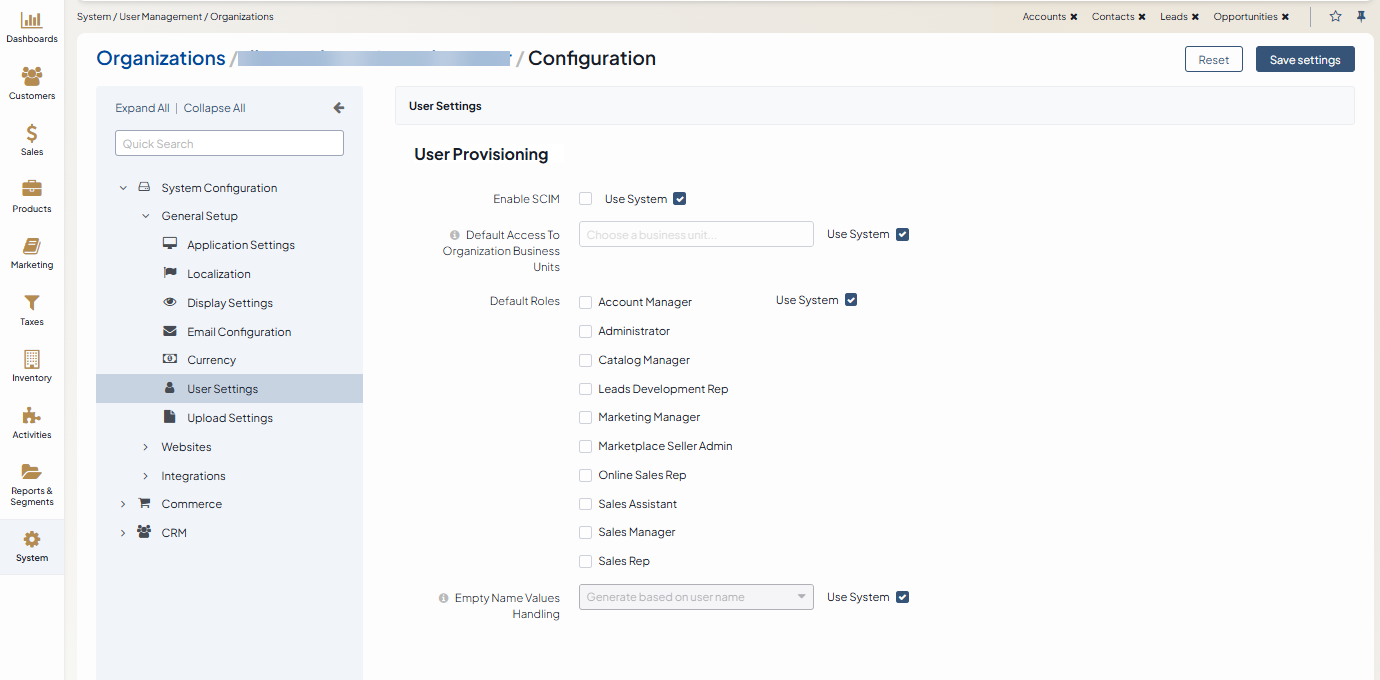
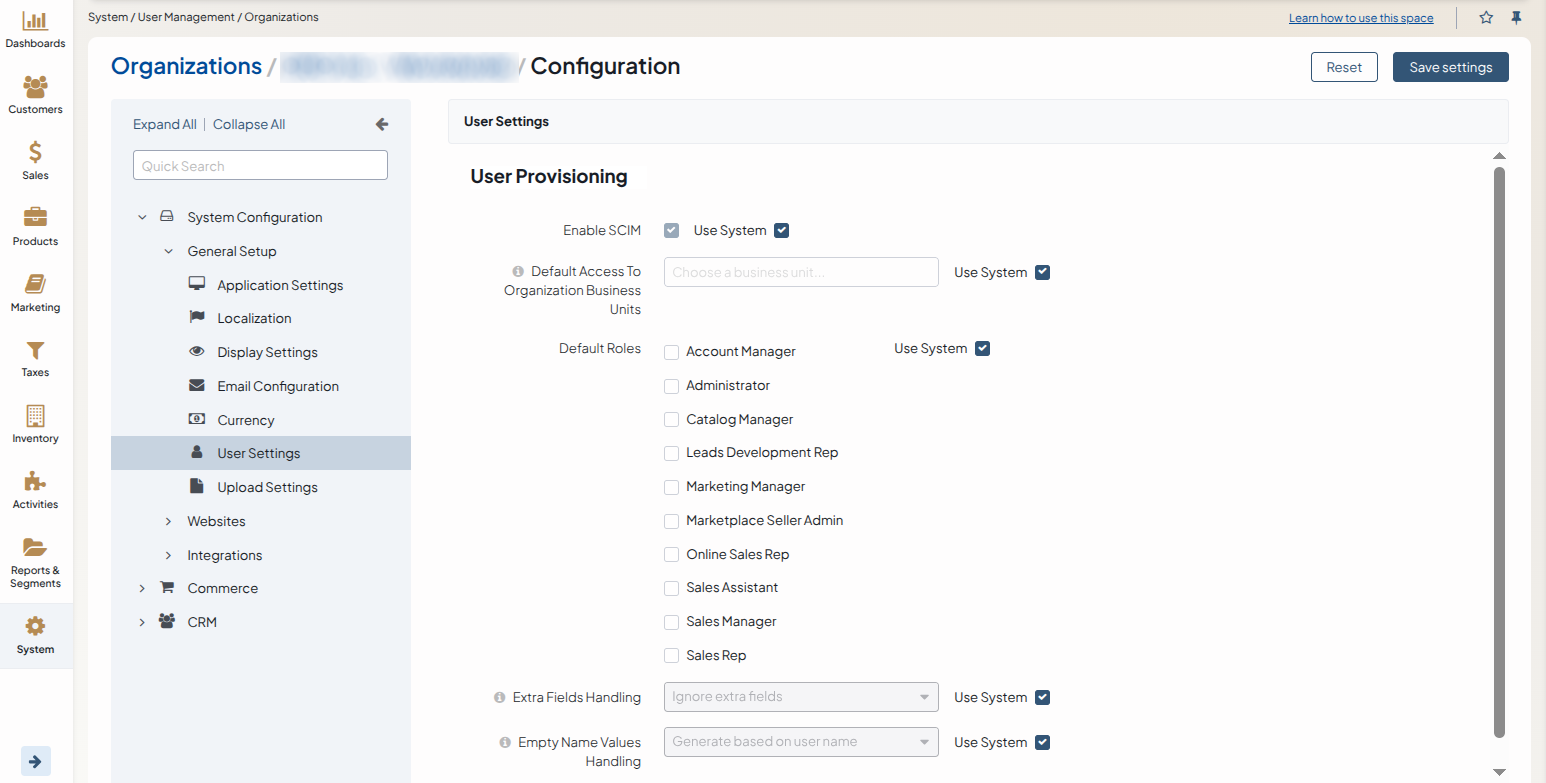
BB-26380: Okta SCIM (#43188)

diff --git a/user/back-office/system/configuration/system/general-setup/user.rst b/user/back-office/system/configuration/system/general-setup/user.rst
@@ -18,7 +18,7 @@ Email Settings
 
 Under **Email Settings**, configure the following:
 
-* **Case-Insensitive Email Addresses** --- If this option is enabled, the letter case is ignored when comparing email addresses. For example, john.doe@example.com and John.Doe@example.com are treated equally. By default, the option is disabled. Be noted that the setting is only applied to back-office users. The identical option for customer users is managed :ref:`here <sys-config--configuration--commerce--customers--customer-users>`.
+* **Case-Insensitive Email Addresses** --- If this option is enabled, the letter case is ignored when comparing email addresses. For example, john.doe@example.com and John.Doe@example.com are treated equally. By default, the option is disabled. Please note that the setting only applies to back-office users. The identical option for customer users is managed :ref:`here <sys-config--configuration--commerce--customers--customer-users>`.
 
 .. _admin-configuration-user-settings-share:
 
@@ -38,7 +38,7 @@ User Provisioning
 
 .. note:: The SCIM synchronization is available as of OroCommerce Enterprise version 6.1.6.
 
-Under **User Provisioning**, configure the SCIM (System for Cross-domain Identity Management) protocol in the Oro application. This setup allows you to import and synchronize users from external identity systems, such as Microsoft Entra ID, into Oro. Once imported, these users can log in to Oro via :ref:`Microsoft 365 Single Sign-On <user-guide-integrations-microsoft-single-sign-on>`.
+Under **User Provisioning**, configure the SCIM (System for Cross-domain Identity Management) protocol in the Oro application. This setup allows you to import and synchronize users from external identity systems, such as Microsoft Entra ID or Okta, into Oro. Once imported, these users can log in to Oro via :ref:`Microsoft 365 Single Sign-On <user-guide-integrations-microsoft-single-sign-on>` or Okta Single Sign-On.
 
 Enable SCIM Synchronization
 ^^^^^^^^^^^^^^^^^^^^^^^^^^^
@@ -48,11 +48,113 @@ To enable and control SCIM synchronization, set the following options:
 * **Enable SCIM** --- Enable or disable the SCIM integration on the global level.
 * **Default Access to Organization Business Units** --- Select the organizations and business units that will be automatically assigned to newly synchronized users.
 * **Default Roles** --- Select the user roles that new users will receive upon synchronization.
-* **Empty name values handling** --- Choose how the system should handle cases when the identity provider does not send first or last name values. The available options are:
+* **Extra Fields Handling** --- Choose how the system should handle cases when the identity provider sends extra fields. The available options are:
 
-    * **Leave as is and expect validation errors** --- If selected, and the identity provider sends no first or last name to Oro, the system will return an exception without generating any replacement values.
+    * **Return error** (default) --- If selected, and the identity provider sends extra fields to Oro, the system will return an error.
+    * **Ignore extra fields** --- If selected, and the identity provider sends extra fields to Oro, the system will ignore these fields.
+* **Empty Name Values Handling** --- Choose how the system should handle cases when the identity provider does not send first or last name values. The available options are:
+
+    * **Leave as is and expect validation errors** --- If selected, and the identity provider sends no first or last name to Oro, the system will return an error without generating any replacement values.
     * **Generate based on user name** (default) --- If selected, the first and last name values will be copied from the username field.
-    * **Use random string** ---  If selected, the first and last name values will be automatically generated as random strings.
+    * **Use random string** --- If selected, the first and last name values will be automatically generated as random strings.
+
+.. _okta-provisioning-service:
+
+Configure Okta Provisioning Service
+^^^^^^^^^^^^^^^^^^^^^^^^^^^^^^^^^^^
+
+**OroCommerce side**
+
+To configure the user provisioning via |Okta provisioning service|, make sure you have:
+
+1. Configured the SCIM synchronization globally or :ref:`per required organization <admin-configuration-user-settings-org>`.
+
+    .. important:: At least one organization business unit and user role should be configured in order to allow login of imported users.
+
+2. Created Authorization Code OAuth application as described in the :ref:`Create an OAuth Application <oauth-applications>` topic.
+
+    .. note:: The redirect URL you can see in |Okta SCIM API - authentication| in the Okta SCIM API documentation. Add a fake URL if you have not yet created an Okta application. The correct URL can be set later.
+
+3. Copied Client ID and Client secret. For security reasons, the Client Secret is displayed only once -- immediately after you have created a new application. You cannot view the Client Secret anywhere in the application once you leave a page with the created application information, so make sure you save it somewhere safe so you can access it later.
+
+**Okta side**
+
+1. Log in to your Okta Admin Console.
+
+2. Navigate to **Applications > Applications**.
+
+3. Click **Create App Integration**.
+
+4. Choose **SAML 2.0** sign-in method and click **Next**.
+
+5. Provide a name and a logo for the new application and click **Next**.
+
+6. Fill in the form with the following data and click **Next**:
+
+    * **Single sign-on URL**: ``https://yourapplication``
+    * **Audience URI (SP Entity ID)**: ``https://yourapplication``
+
+7. Specify options that will help Okta Support understand how you configured this application and click **Finish**.
+
+    .. note:: As the Okta application has been successfully created, you can now add the redirect URL to the OroCommerce OAuth application.
+
+8. On the application management page, navigate to the **General** tab and click **Edit** in **App Settings**.
+
+9. Choose **SCIM** provisioning method and click **Save**.
+
+10. Navigate to the **Provisioning** tab and click **Edit** in **SCIM Connection**.
+
+11. Fill in the form with the following data and click **Save**:
+
+    * **SCIM connector base URL**: ``https://yourapplication/{backend_prefix}/scim``
+    * **Unique identifier field for users**: ``userName``
+    * **Supported provisioning actions**: ``Push New Users`` and ``Push Profile Updates``
+    * **Authentication Mode**: ``OAuth 2``
+    * **Access token endpoint URI**: ``https://yourapplication/oauth2-token``
+    * **Authorization endpoint URI**: ``https://yourapplication/{backend_prefix}/oauth2-token/authorize``
+    * **Client ID**: The Client ID value of the OAuth 2 application
+    * **Client Secret**: The client secret of the OAuth 2 application
+
+12. Click **Authorize with {your application}** and grant access to your application to Okta.
+
+13. Navigate to the **Provisioning** tab, click **To App** in the left menu and click **Edit** in **Provisioning to App**.
+
+14. Fill in the form with the following data and click **Save**:
+
+    * **Create Users**: Enable
+    * **Update User Attributes**: Enable
+    * **Deactivate Users**: Enable
+
+15. Navigate to the **Provisioning** tab and click **To App** in the left menu and configure user mapping with the following attributes:
+
+    +------------------+----------------+----------------------------------------------------------------------+
+    | Attribute        | Attribute Type | Value                                                                |
+    +==================+================+======================================================================+
+    | userName         | Personal       |                                                                      |
+    +------------------+----------------+----------------------------------------------------------------------+
+    | givenName        | Personal       | user.firstName                                                       |
+    +------------------+----------------+----------------------------------------------------------------------+
+    | familyName       | Personal       | user.lastName                                                        |
+    +------------------+----------------+----------------------------------------------------------------------+
+    | middleName       | Personal       | user.middleName                                                      |
+    +------------------+----------------+----------------------------------------------------------------------+
+    | honorificPrefix  | Personal       | user.honorificPrefix                                                 |
+    +------------------+----------------+----------------------------------------------------------------------+
+    | honorificSuffix  | Personal       | user.firstName                                                       |
+    +------------------+----------------+----------------------------------------------------------------------+
+    | email            | Personal       | user.email                                                           |
+    +------------------+----------------+----------------------------------------------------------------------+
+    | emailType        | Personal       | (user.email != null && user.email != '') ? 'work' : ''               |
+    +------------------+----------------+----------------------------------------------------------------------+
+    | title            | Personal       | user.title                                                           |
+    +------------------+----------------+----------------------------------------------------------------------+
+    | primaryPhone     | Personal       | user.primaryPhone                                                    |
+    +------------------+----------------+----------------------------------------------------------------------+
+    | primaryPhoneType | Personal       | (user.primaryPhone != null && user.primaryPhone != '') ? 'work' : '' |
+    +------------------+----------------+----------------------------------------------------------------------+
+
+16. Navigate to the **Assignments** tab and configure the user to be provisioned.
+
 
 .. _microsoft-entra-provisioning-service:
 
@@ -65,9 +167,11 @@ To configure the user provisioning via |Microsoft Entra provisioning service|, m
 
 1. Configured the SCIM synchronization globally or :ref:`per required organization <admin-configuration-user-settings-org>`.
 
-2. Created Client Credentials as described in the :ref:`Create an OAuth Application <oauth-applications>` topic.
+    .. important:: At least one organization business unit and user role should be configured in order to allow login of imported users.
 
-3. Copied Client ID and Client secret. For security reasons, the Client Secret is displayed only once -- immediately after you have created a new application. You cannot view the Client Secret anywhere in the application once you close this dialog, so make sure you save it somewhere safe so you can access it later.
+2. Created Client Credentials OAuth application as described in the :ref:`Create an OAuth Application <oauth-applications>` topic.
+
+3. Copied Client ID and Client secret. For security reasons, the Client Secret is displayed only once -- immediately after you have created a new application. You cannot view the Client Secret anywhere in the application once you leave a page with the created application information, so make sure you save it somewhere safe so you can access it later.
 
     .. image:: /user/img/system/user_management/oauth/client_creds_app.png
 
@@ -93,7 +197,7 @@ To configure the user provisioning via |Microsoft Entra provisioning service|, m
     * **Tenant URL**: the SCIM endpoint URL of your application, for example: ``https://yourapplication/scim/``, or ``https://yourapplication/{backend_prefix}/scim/`` if Commerce application is installed.
     * **Token endpoint**: ``https://yourapplication/oauth2-token``
     * **Client identifier**: The Client ID value of the OAuth 2 application
-    * Client Secret: The client secret of the OAuth 2 application
+    * **Client Secret**: The client secret of the OAuth 2 application
 
     .. image:: /user/img/system/config_system/ms_provisioning_config.png
 
@@ -140,9 +244,7 @@ To configure the user provisioning via |Microsoft Entra provisioning service|, m
 
 After the initial provisioning cycle begins, go to **Provisioning logs** in the left menu to track its progress. This section displays all the actions performed by the provisioning service for your application.
 
-After user was synced, you will be able to log in via :ref:`Microsoft 365 Single Sign-On <user-guide-integrations-microsoft-single-sign-on>` with such synced users.
-
-.. important:: The imported user must be assigned to at least one organization business unit in order to log in.
+After the user was synced, you will be able to log in via :ref:`Microsoft 365 Single Sign-On <user-guide-integrations-microsoft-single-sign-on>` with such synced users.
 
 
 .. include:: /include/include-images.rst

diff --git a/user/back-office/system/user-management/oauth-app.rst b/user/back-office/system/user-management/oauth-app.rst
@@ -42,8 +42,8 @@ To create a new OAuth application in the back-office:
    * **Organization** --- If you are adding an application within the organization with *global* access, you can select which other available organization to add the application to. This field is displayed to users with access to multiple organizations (available for the Enterprise edition only).
    * **Application Name** --- Provide a meaningful name for the application you are adding.
    * **Active** --- Select the **Active** checkbox to activate the new application.
-   * **Client Support All API Types** --- Select whether the client should support all available API types. If disabled, the *Selected API Types* filed appears with a list of API types for the user to select the required one.
-   * **Selected API Types** --- The field appears when the *Client Support All API Types* field is disabled. Select the API type that the client should support. Available options are JSON:API, Email Addon, Smart Agent Integration, and :ref:`SCIM <admin-configuration-user-settings-scim>`.
+   * **Support all APIs** --- Select whether the client should support all available API types. If disabled, the *Supported APIs* filed appears with a list of API types for the user to select the required one.
+   * **Supported APIs** --- The field appears when the *Support all APIs* field is disabled. Select the API type that the client should support, for example JSON:API, Email Addon, SCIM, etc.
    * **Grant Type** --- Select the grant type to apply to the new application. Currently, the available grant types are *Authorization Code*, *Client Credentials*, and *Password*. The |Authorization Code Grant| type is used by confidential and public clients to exchange an authorization code for an access token, the |OAuth Client Credentials Grant| type is used for machine-to-machine authentication (e.g., in a cron job that performs maintenance tasks over an API) and |OAuth Password Grant| is used by trusted first-party clients to exchange the credentials (username and password) for an access token.
    * **Users** --- The field appears when selecting *Client Credentials* as a grant type in the previous field. Select a customer user who you want to assign the new application to.
    * **Redirect URLs** --- The field appears when selecting *Authorization Code* as a grant type. The list of URLs to which it is allowed to redirect the user back to.

diff --git a/user/back-office/system/user-management/organizations/org-configuration/general-setup-org/organization-user-settings.rst b/user/back-office/system/user-management/organizations/org-configuration/general-setup-org/organization-user-settings.rst
@@ -27,15 +27,19 @@ To set the user provisioning settings per specific organization:
 * **Enable SCIM** --- Enable or disable the SCIM integration on the global level.
 * **Default Access to Organization Business Units** --- Select the organizations and business units that will be automatically assigned to newly synchronized users.
 * **Default Roles** --- Select the user roles that new users will receive upon synchronization.
+* **Extra fields handling** --- Choose how the system should handle cases when the identity provider send extra fields. The available options are:
+
+    * **Return error** (default) --- If selected, and the identity provider sends extra fields to Oro, the system will return an error.
+    * **Ignore extra fields** --- If selected, and the identity provider sends extra fields to Oro, the system will ignore these fields.
 * **Empty name values handling** --- Choose how the system should handle cases when the identity provider does not send first or last name values. The available options are:
 
-    * **Leave as is and expect validation errors** --- If selected, and the identity provider sends no first or last name to Oro, the system will return an exception without generating any replacement values.
+    * **Leave as is and expect validation errors** --- If selected, and the identity provider sends no first or last name to Oro, the system will return an error without generating any replacement values.
     * **Generate based on user name** (default) --- If selected, the first and last name values will be copied from the username field.
-    * **Use random string** ---  If selected, the first and last name values will be automatically generated as random strings.
+    * **Use random string** --- If selected, the first and last name values will be automatically generated as random strings.
 
 5. Click **Save settings** to apply the changes.
 
-6. Once enabled, you can configure Microsoft Entra provisioning service, following the steps described in the :ref:`related documentation <microsoft-entra-provisioning-service>`.
+6. Once enabled, you can configure a user provisioning service, following the steps described in the :ref:`Configure Okta Provisioning Service <okta-provisioning-service>` or the :ref:`Configure Microsoft Entra Provisioning Service <microsoft-entra-provisioning-service>`.
 
 
 

diff --git a/user/back-office/system/user-management/index.rst b/user/back-office/system/user-management/index.rst
@@ -51,7 +51,7 @@ The following topics describe the available access levels and explain the differ
 OAuth Applications
 ------------------
 
-The section aggregates information on all OAuth applications created for users in the back-office. Here, you can view and manage the existing OAuth applications, create new ones, and get access tokens through the applications with client credentials and passwords grant types. Check out the :ref:`OAuth Applications <oauth-applications>` topic for more details on how to add the application both from the Oro and third-party sides via various APIs (JSON:API, SCIM, Email Addon, or Smart Agent Integration).
+The section aggregates information on all OAuth applications created for users in the back-office. Here, you can view and manage the existing OAuth applications, create new ones, and get access tokens through the applications with client credentials and passwords grant types. Check out the :ref:`OAuth Applications <oauth-applications>` topic for more details on how to add the application both from the Oro and third-party sides via various APIs (JSON:API, SCIM, Email Addon, etc.).
 
 Login Attempts
 --------------

diff --git a/include/include-links-user.rst b/include/include-links-user.rst
@@ -1046,6 +1046,14 @@ Links (User)
 
    <a href="https://datatracker.ietf.org/doc/html/rfc7644" target="_blank">RFC 7644</a>
 
+.. |Okta provisioning service|  raw:: html
+
+   <a href="https://help.okta.com/en-us/content/topics/provisioning/lcm/con-okta-prov.htm" target="_blank">Okta provisioning service</a>
+
+.. |Okta SCIM API - authentication|  raw:: html
+
+   <a href="https://developer.okta.com/docs/guides/scim-provisioning-integration-prepare/main/#authentication" target="_blank">authentication</a>
+
 .. |Microsoft Entra ID|  raw:: html
 
    <a href="https://learn.microsoft.com/en-us/entra/identity/app-provisioning/user-provisioning" target="_blank">Microsoft Entra ID</a>
